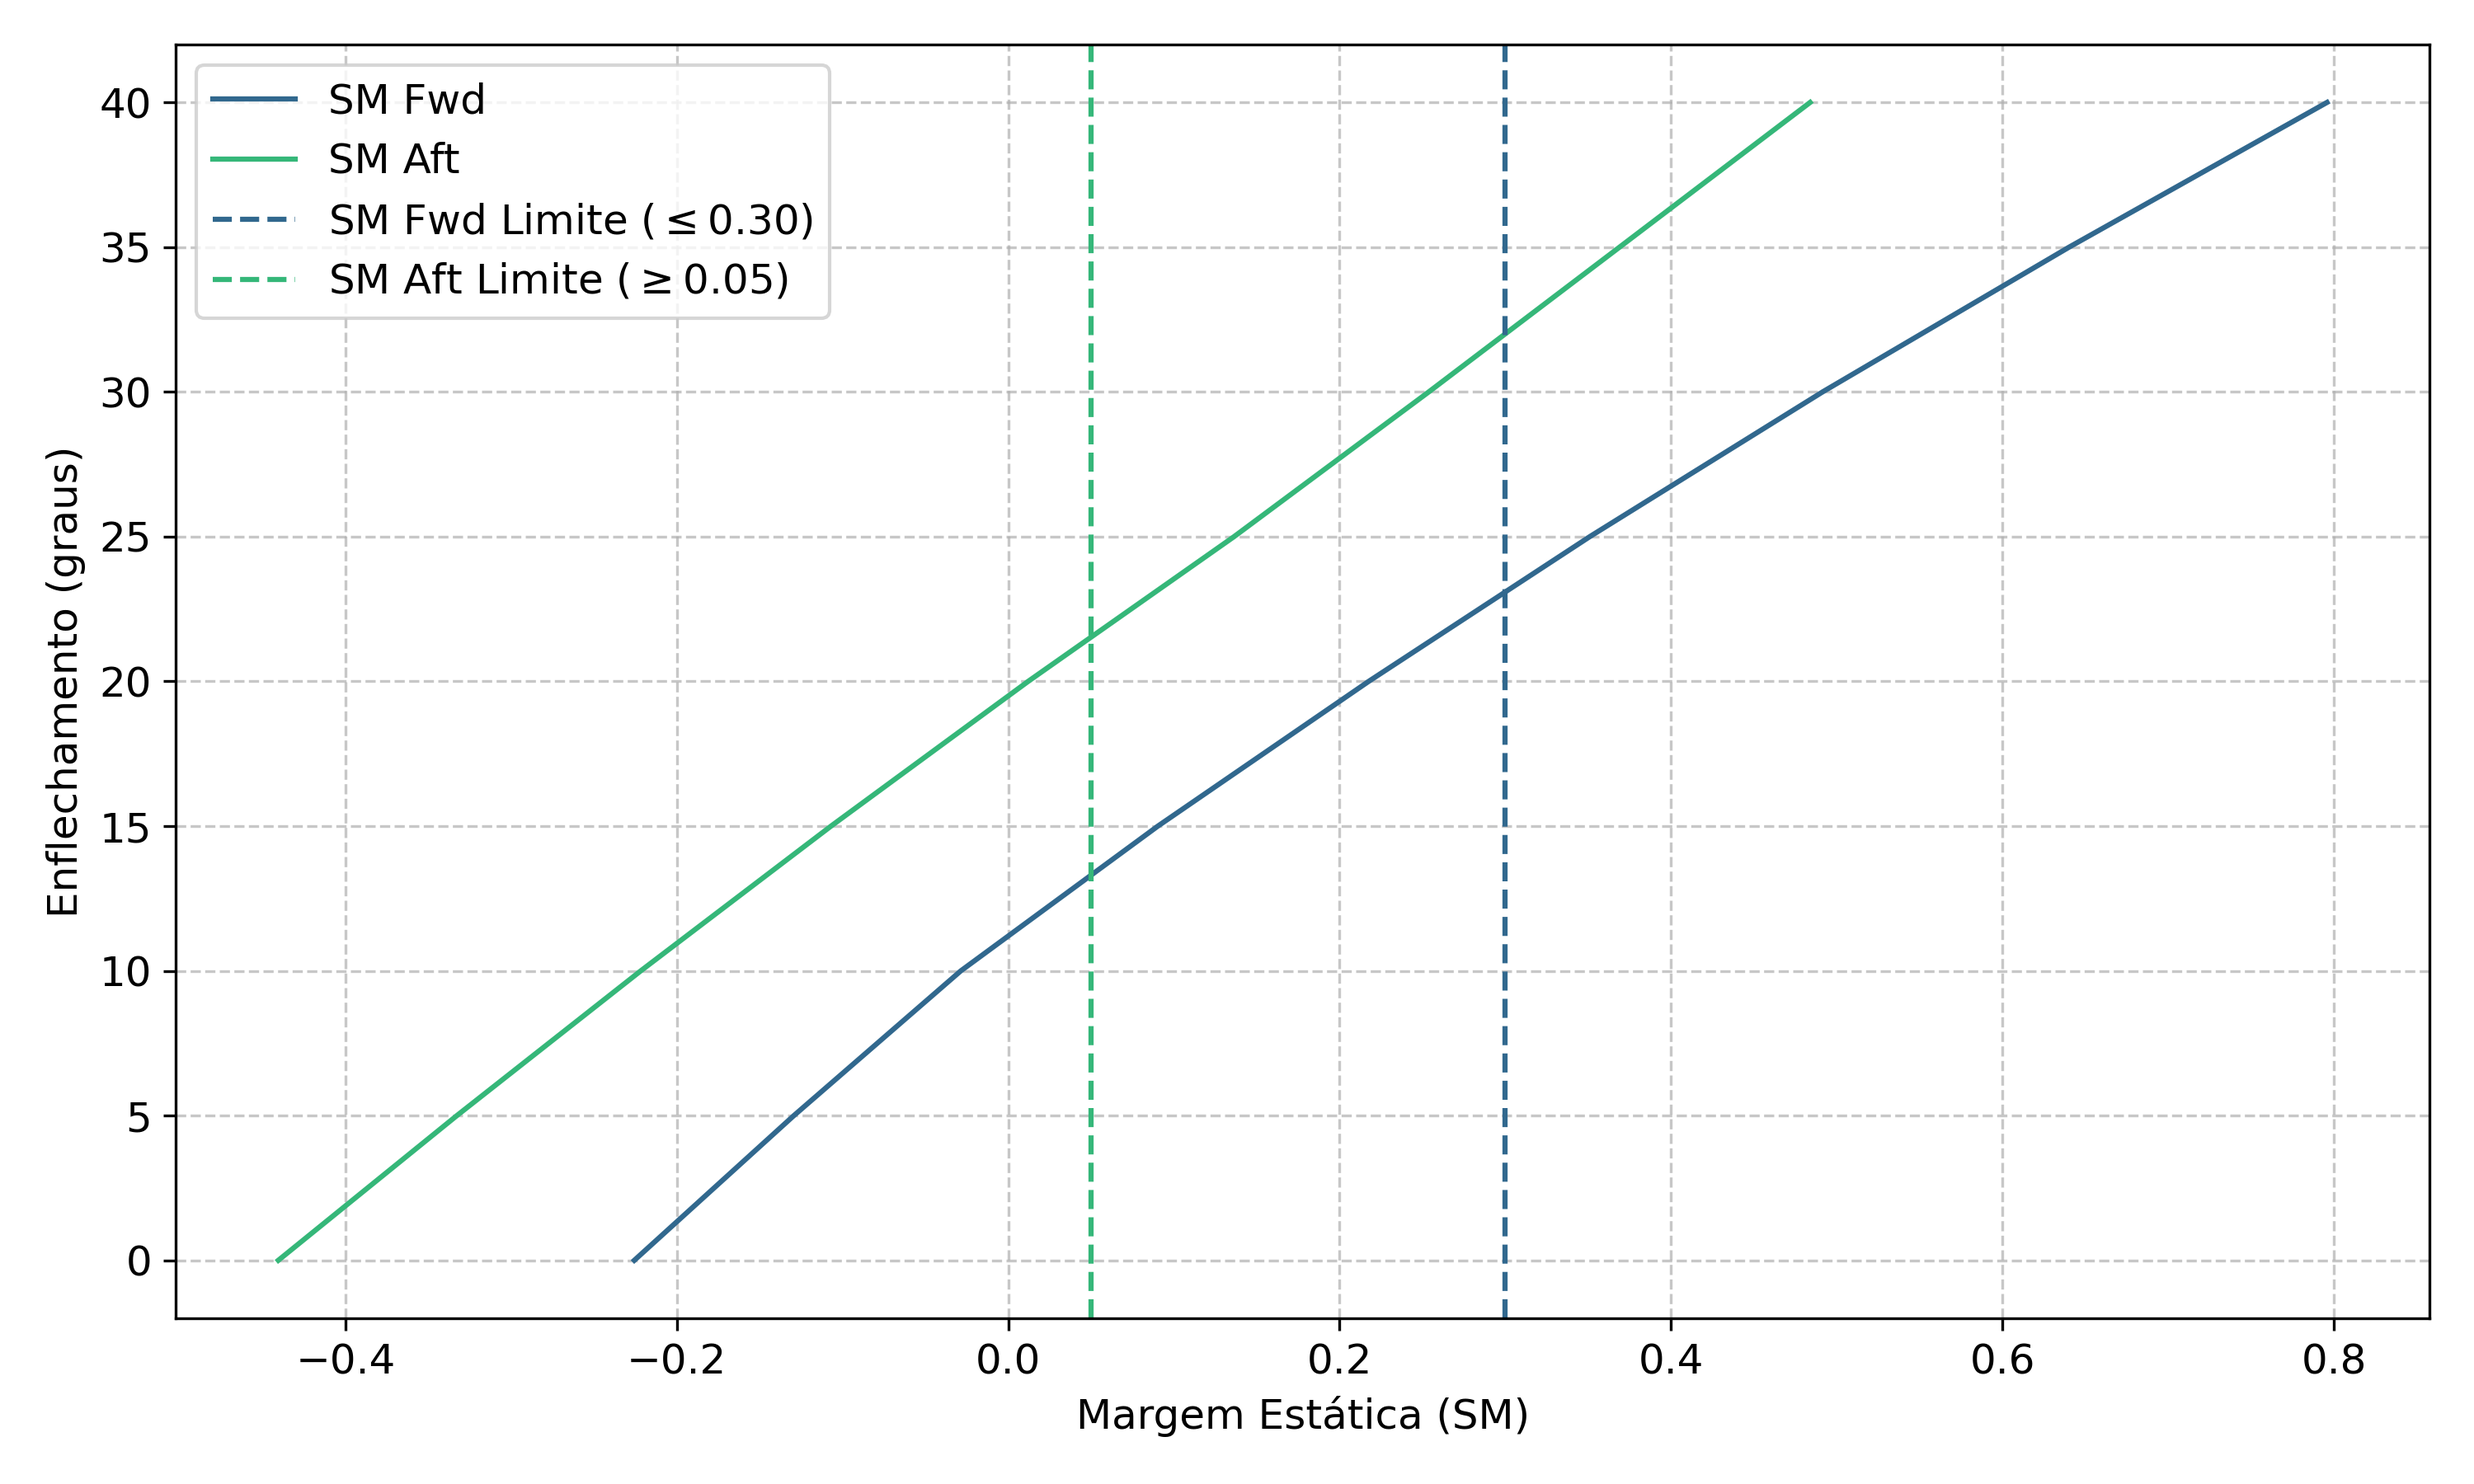
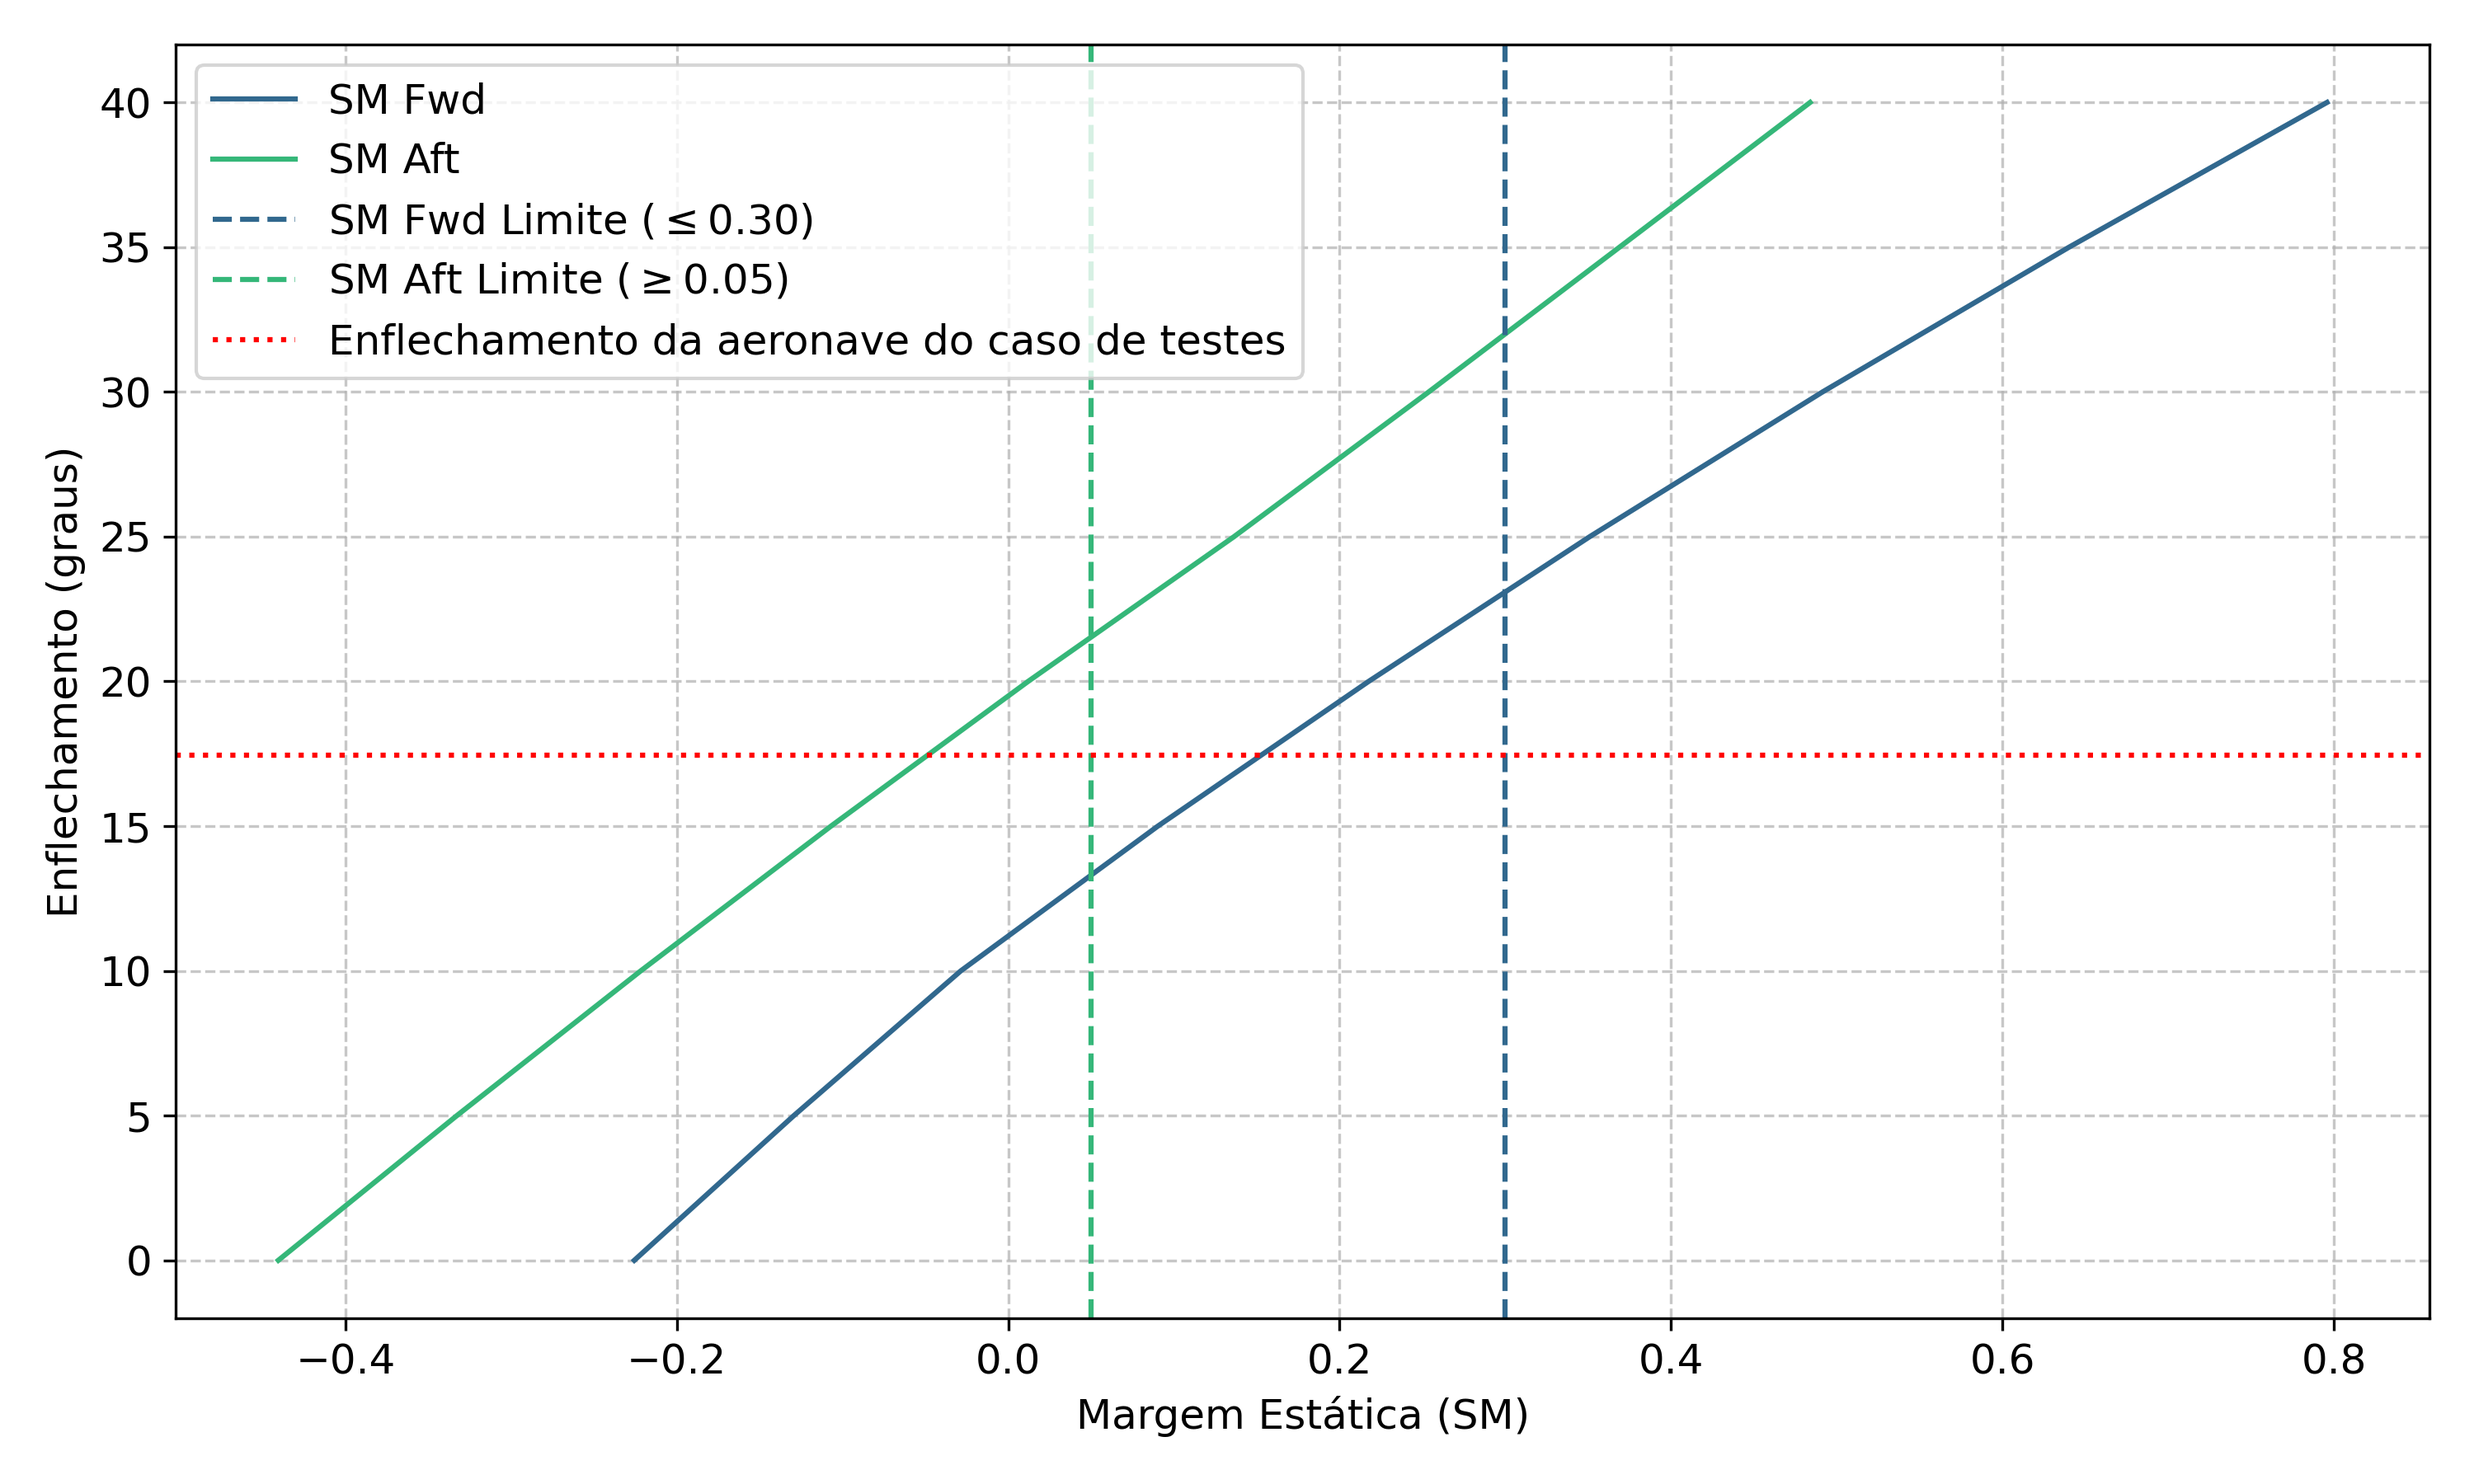
estabilidade

Changed region(s): [[0.124, 0.2178, 0.527, 0.2489]]

diff --git a/estabilidade_e_trem_de_pouso/script.py b/estabilidade_e_trem_de_pouso/script.py
@@ -78,6 +78,8 @@ print(f"Alpha_tipback: {alpha_tipback:.2f} rad")
 print(f"Alpha_tailstrike: {alpha_tailstrike:.2f} rad")
 print(f"Phi_overturn: {phi_overturn:.2f} rad")
 
+sweep_origin = aircraft['geo_param']['wing']['sweep']*180 / np.pi  # Convertendo de radianos para graus
+
 # Primeiro vamos variar os enflechamentos
 
 sweeps = np.arange(0, 45, 5)
@@ -120,7 +122,67 @@ plt.axvline(x=0.05, linestyle='--', label=r'SM Aft Limite ($\geq 0.05$)', color 
 plt.xlabel('Margem Estática (SM)')
 plt.ylabel('Enflechamento (graus)')
 
+plt.axhline(y=sweep_origin, linestyle=':', label='Enflechamento da aeronave do caso de testes', color='red')
+
 plt.grid(linestyle='--', alpha=0.7)
 plt.legend()
 plt.tight_layout()
 plt.savefig('sm_vs_sweep.png', dpi=300)
+
+# Mudando a posição do CG de todo o resto da aeronave
+
+xcg = 0.405
+aircraft['weights']['per_xcg_allelse'] = xcg
+new_dimensions = dt.geometry(aircraft)
+aircraft['dimensions'].update(new_dimensions)
+
+sweeps = np.arange(0, 45, 5)
+sweeps = np.radians(sweeps)
+sm_afts = []
+sm_fwds = []
+
+for sweep in sweeps:
+    aircraft['geo_param']['wing']['sweep'] = sweep
+    new_dimensions = dt.geometry(aircraft)
+    aircraft['dimensions'].update(new_dimensions)
+
+    W0, Wf, T0, deltaS_wlan, SM_fwd, SM_aft, b_tank_b_w, frac_nlg_fwd, frac_nlg_aft, alpha_tipback, alpha_tailstrike, phi_overturn = dt.analyze(
+        aircraft, W0_guess, T0_guess,
+        Mach_cruise, altitude_cruise, range_cruise,
+        Mach_altcruise, range_altcruise, altitude_altcruise,
+        loiter_time,
+        altitude_takeoff, distance_takeoff, TO_flap_def, TO_slat_def,
+        altitude_landing, distance_landing, LD_flap_def, LD_slat_def,
+        MLW_frac
+    )
+
+    sm_fwds.append(SM_fwd)
+    sm_afts.append(SM_aft)
+
+# Plot de sm_fwd e sm_aft em funcao do sweep
+
+colors = sns.color_palette("viridis", 2)
+
+plt.figure(figsize=(10, 6))
+plt.plot(sm_fwds, np.degrees(sweeps), label='SM Fwd', color =colors[0])
+plt.plot(sm_afts, np.degrees(sweeps), label='SM Aft', color = colors[1])
+
+# sm_fwd <= 0.30
+plt.axvline(x=0.30, linestyle='--', label=r'SM Fwd Limite ($\leq 0.30$)', color = colors[0])
+
+# sm_aft >= 0.05
+plt.axvline(x=0.05, linestyle='--', label=r'SM Aft Limite ($\geq 0.05$)', color = colors[1])
+
+plt.axhline(y=sweep_origin, linestyle=':', label='Enflechamento da aeronave do caso de testes', color='red')
+
+plt.xlabel('Margem Estática (SM)')
+plt.ylabel('Enflechamento (graus)')
+
+# Fundo amarelo
+
+plt.annotate(f'Posição do CG de todo o resto: {xcg:.3f}', xy =(0.05, 30), xytext=(-0.35, 38), fontsize=12, color='black')
+
+plt.grid(linestyle='--', alpha=0.7)
+plt.legend()
+plt.tight_layout()
+plt.savefig('sm_vs_sweep_xcg_new.png', dpi=300)
